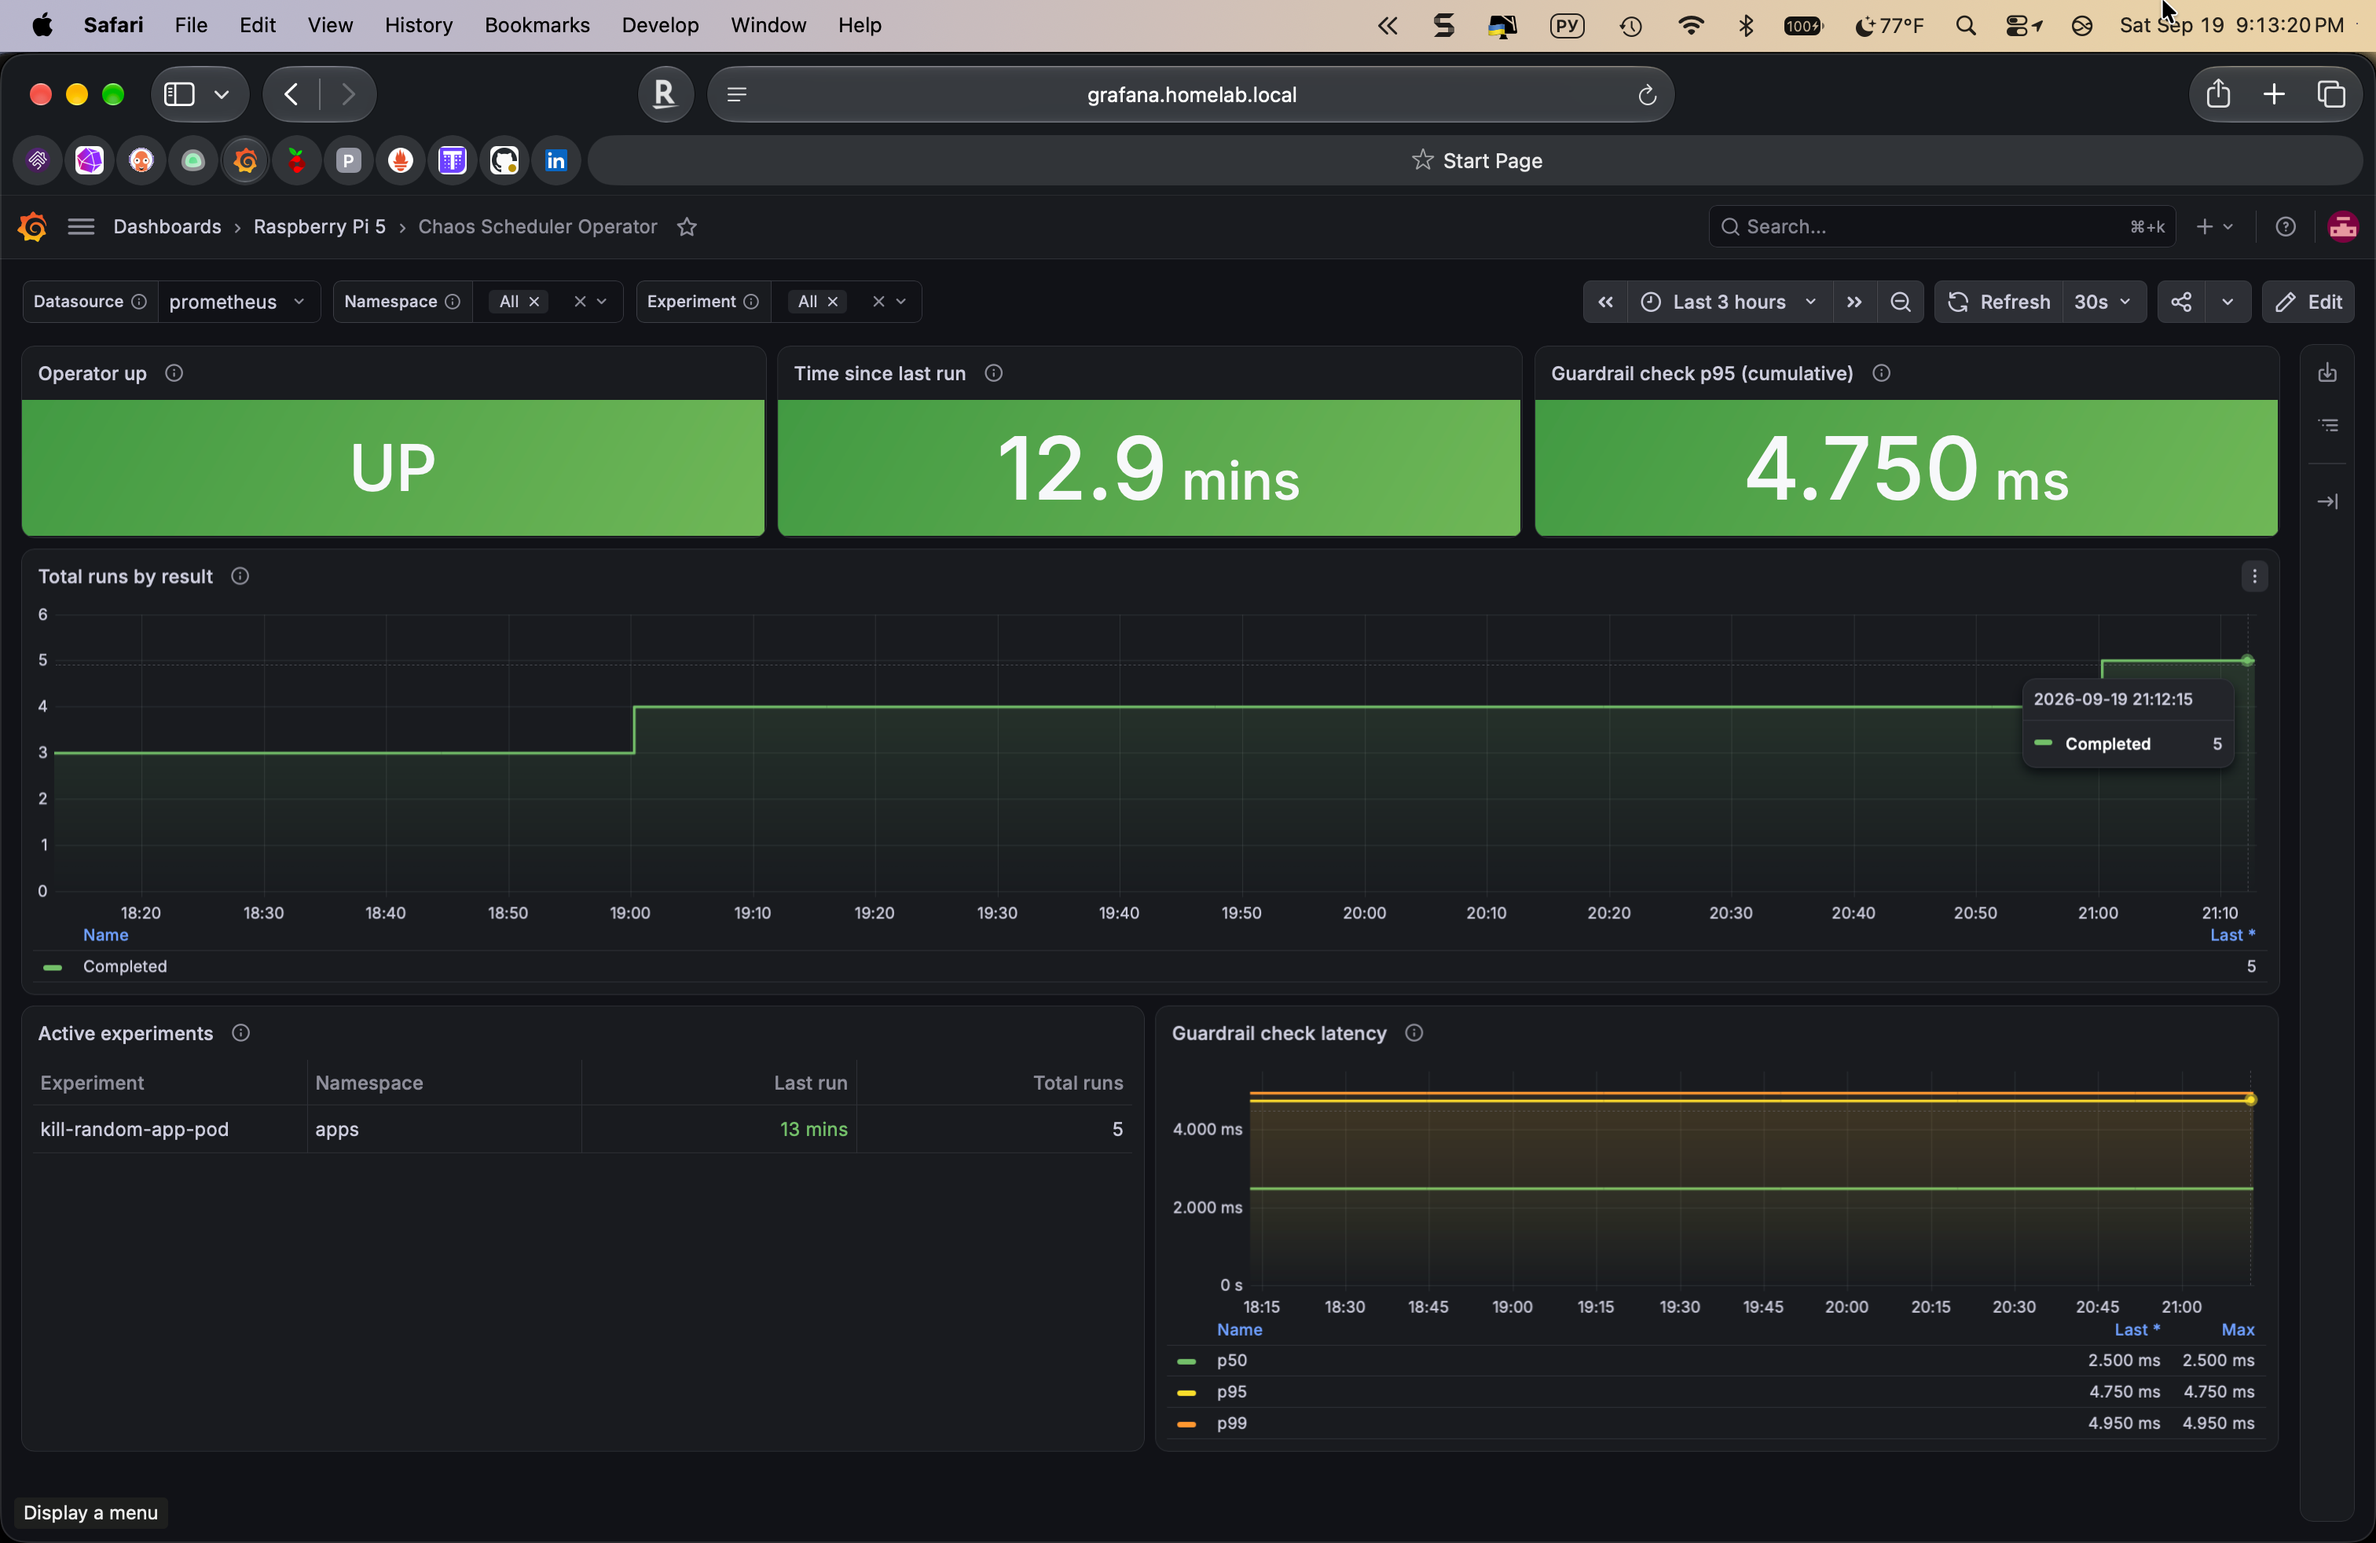
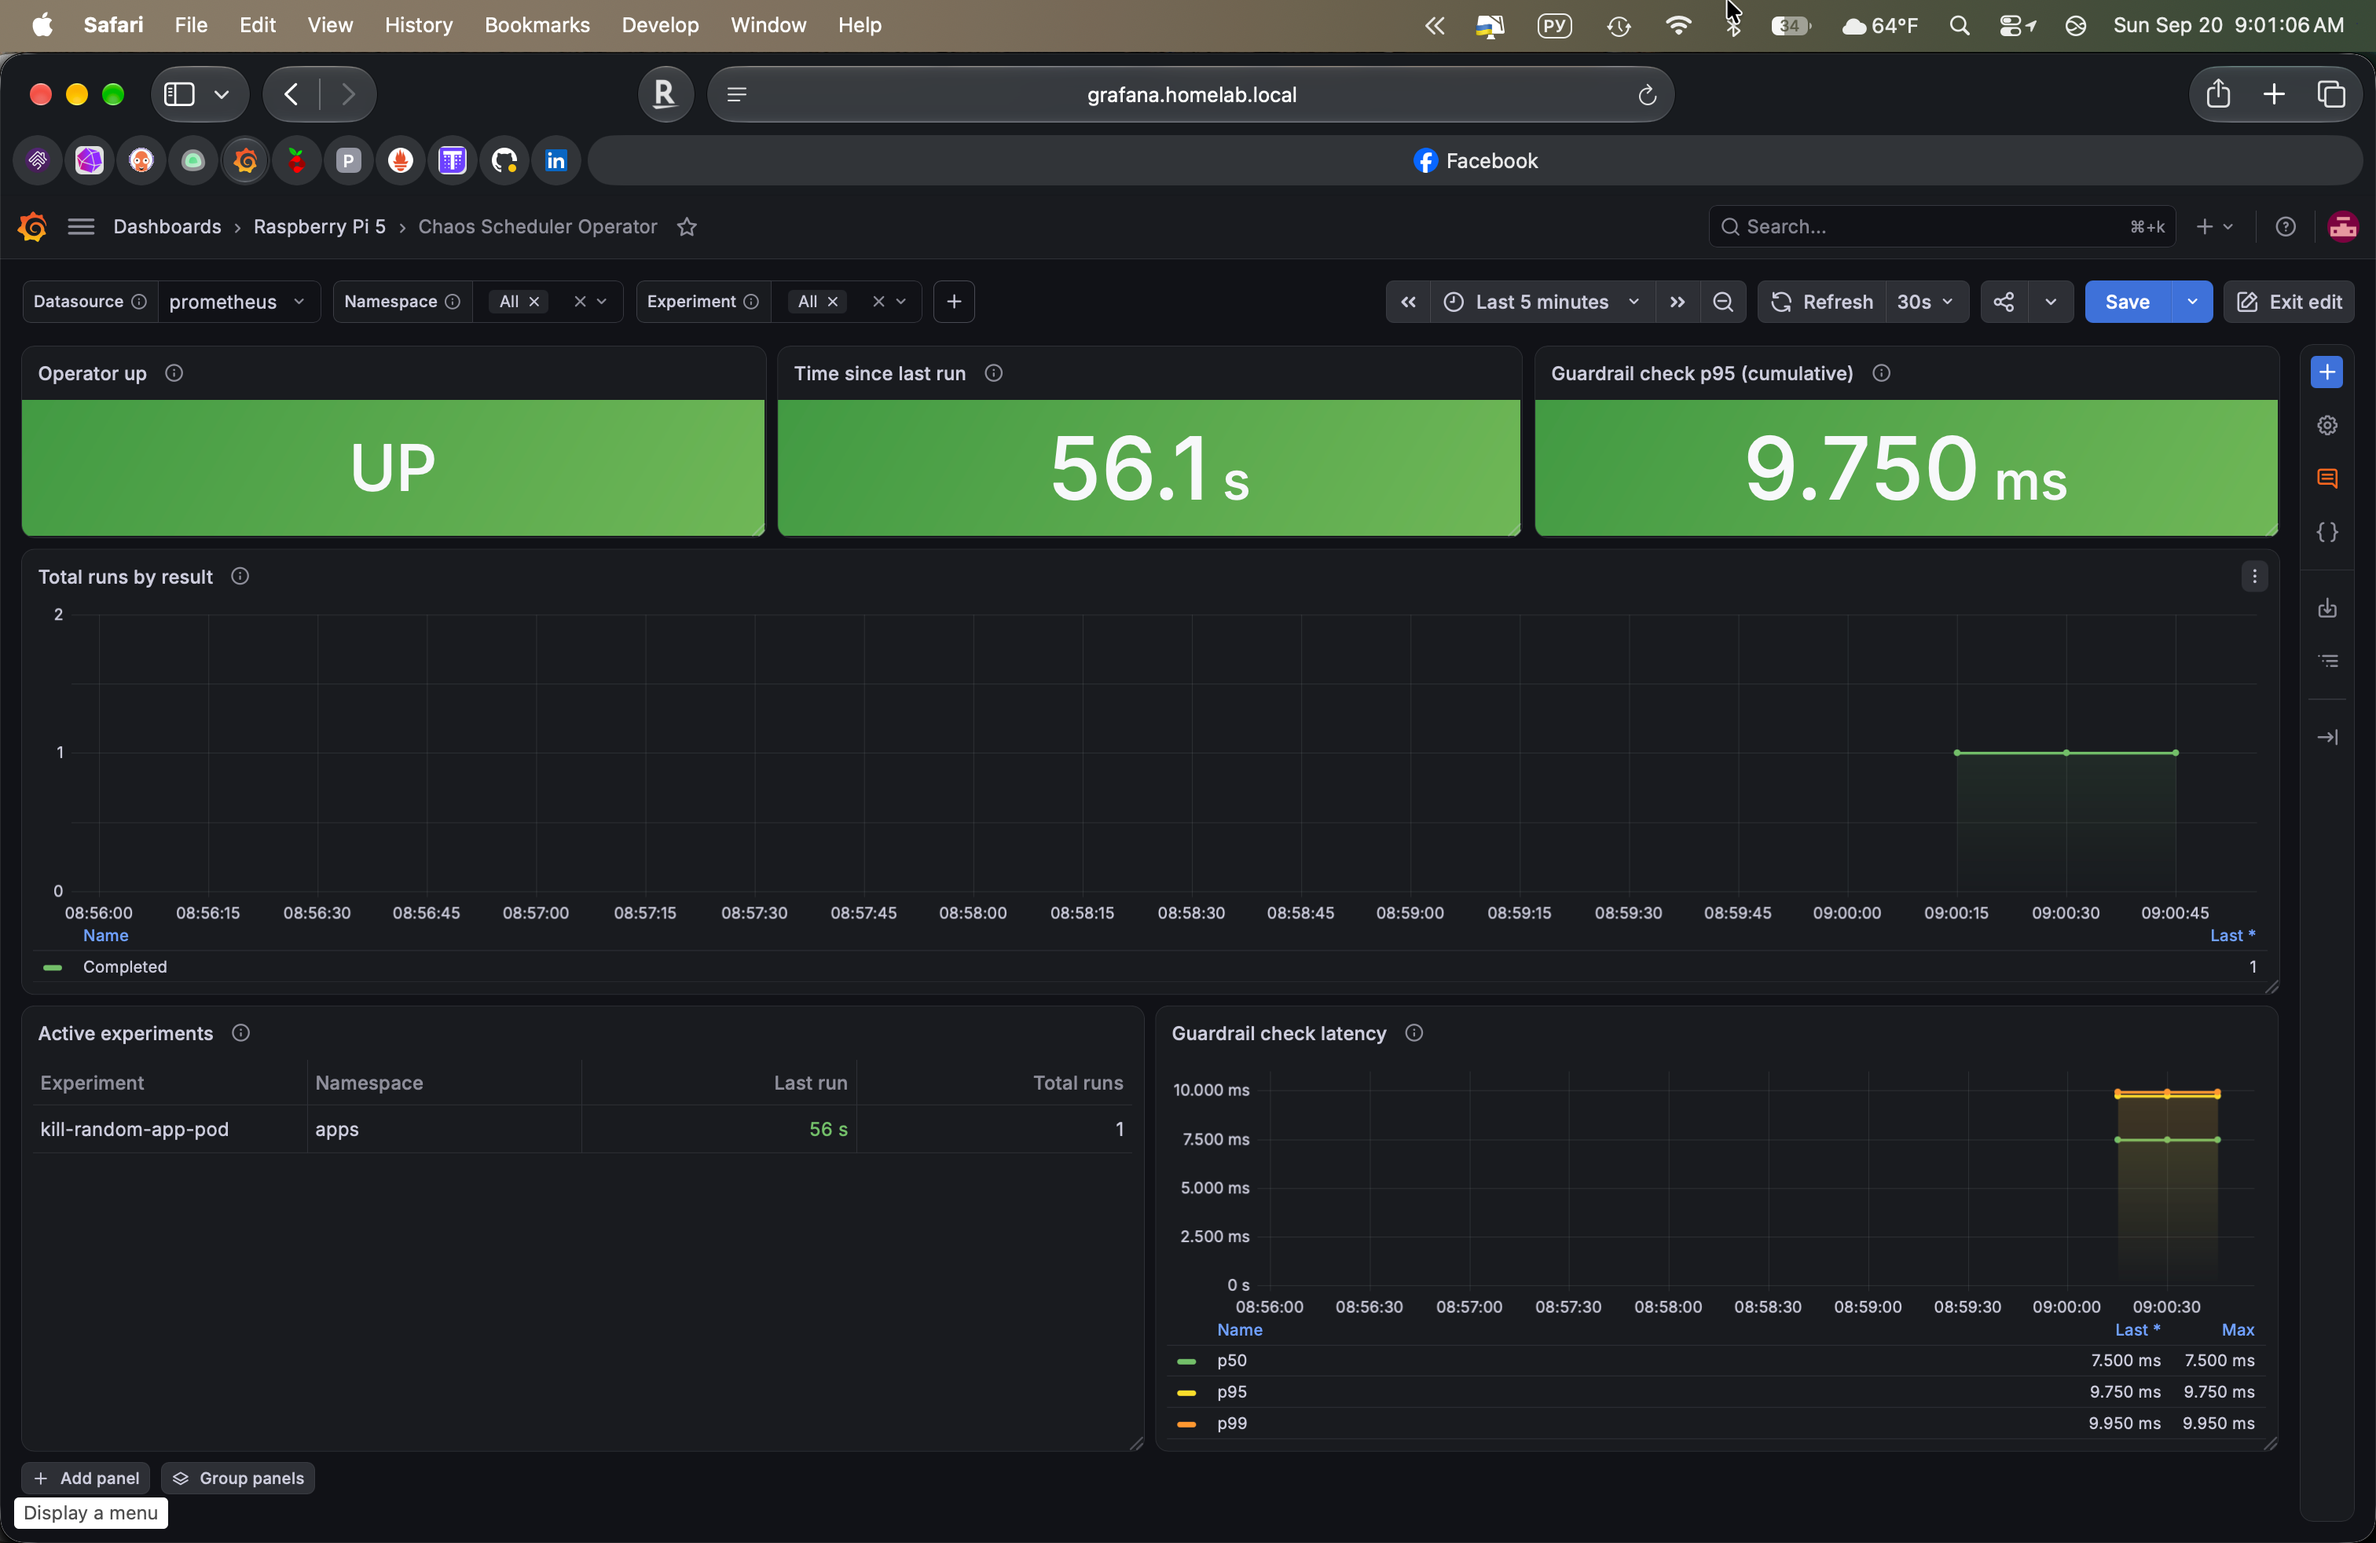
docs: upgrade hero and in-action screenshots
Replace grafana-dashboard.png with a post-restart capture that shows
the dashboard in a more realistic state - values populated after a
fire, cold-start artifact visible in the runs-by-result panel.

Replace chaos-kill-in-action.png (single pane) with
chaos-kill-with-logs.png (two panes): pod lifecycle alongside the
full reconciler log stream, including the new V(1) DEBUG line.

diff --git a/README.md b/README.md
@@ -132,7 +132,7 @@ The reconciler also logs a structured line at every decision branch (experiment 
 
 And here is a real run in the homelab, captured live at 06:00 PDT - old pod terminating on the left, replacement rolling up on the right, all in about two seconds:
 
-![Pod lifecycle during a chaos run](docs/screenshots/chaos-kill-in-action.png)
+![Pod lifecycle and structured logs during a chaos run](docs/screenshots/chaos-kill-with-logs.png)
 
 ## Status
 
